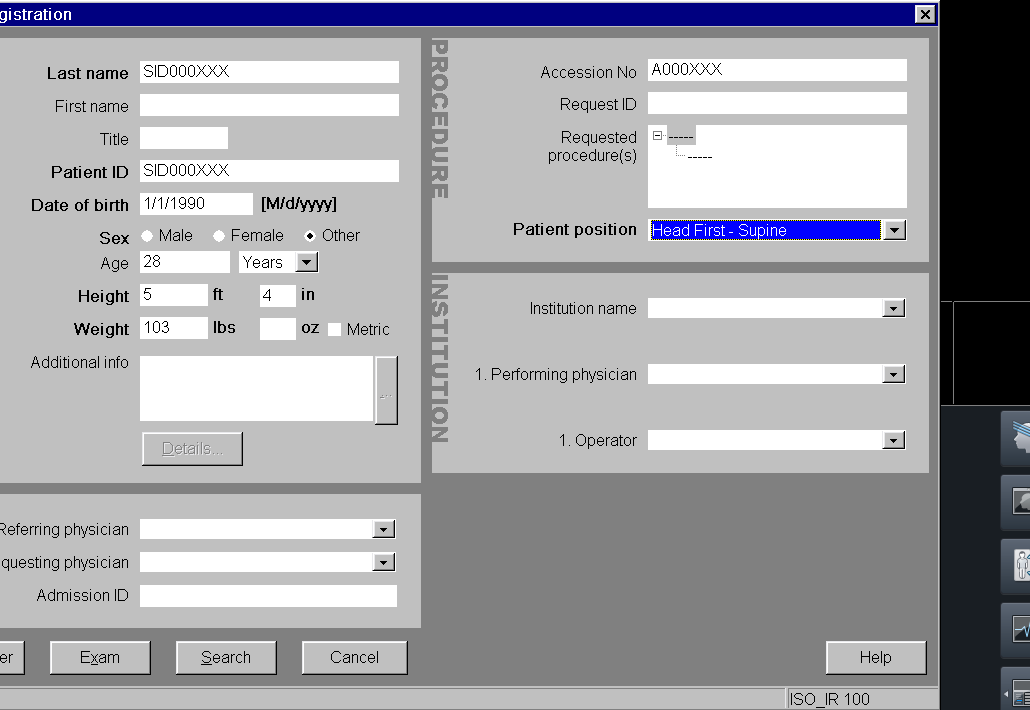
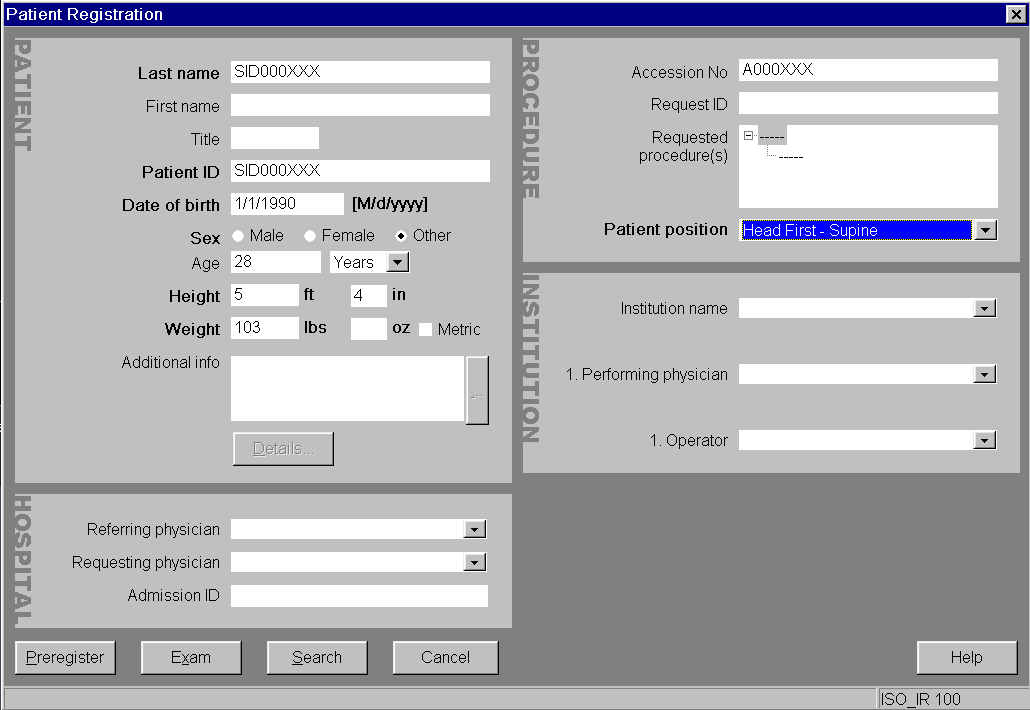
recropped subj registration window

diff --git a/docs/source/images/walkthrough-1/crop.py b/docs/source/images/walkthrough-1/crop.py
@@ -14,7 +14,7 @@ def get_crop(filename):
         crop = groups['crop']
     crop_ = {
       "dot+save": '736x577+196+890',
-      "patientreg": '1030x710+191+940',
+      "patientreg": '1030x710+100+940',
       "patientconf": '1074x857+67+868',
       "exam": '505x450+0+1348',
       "exam+menu": '505x801+0+997',
